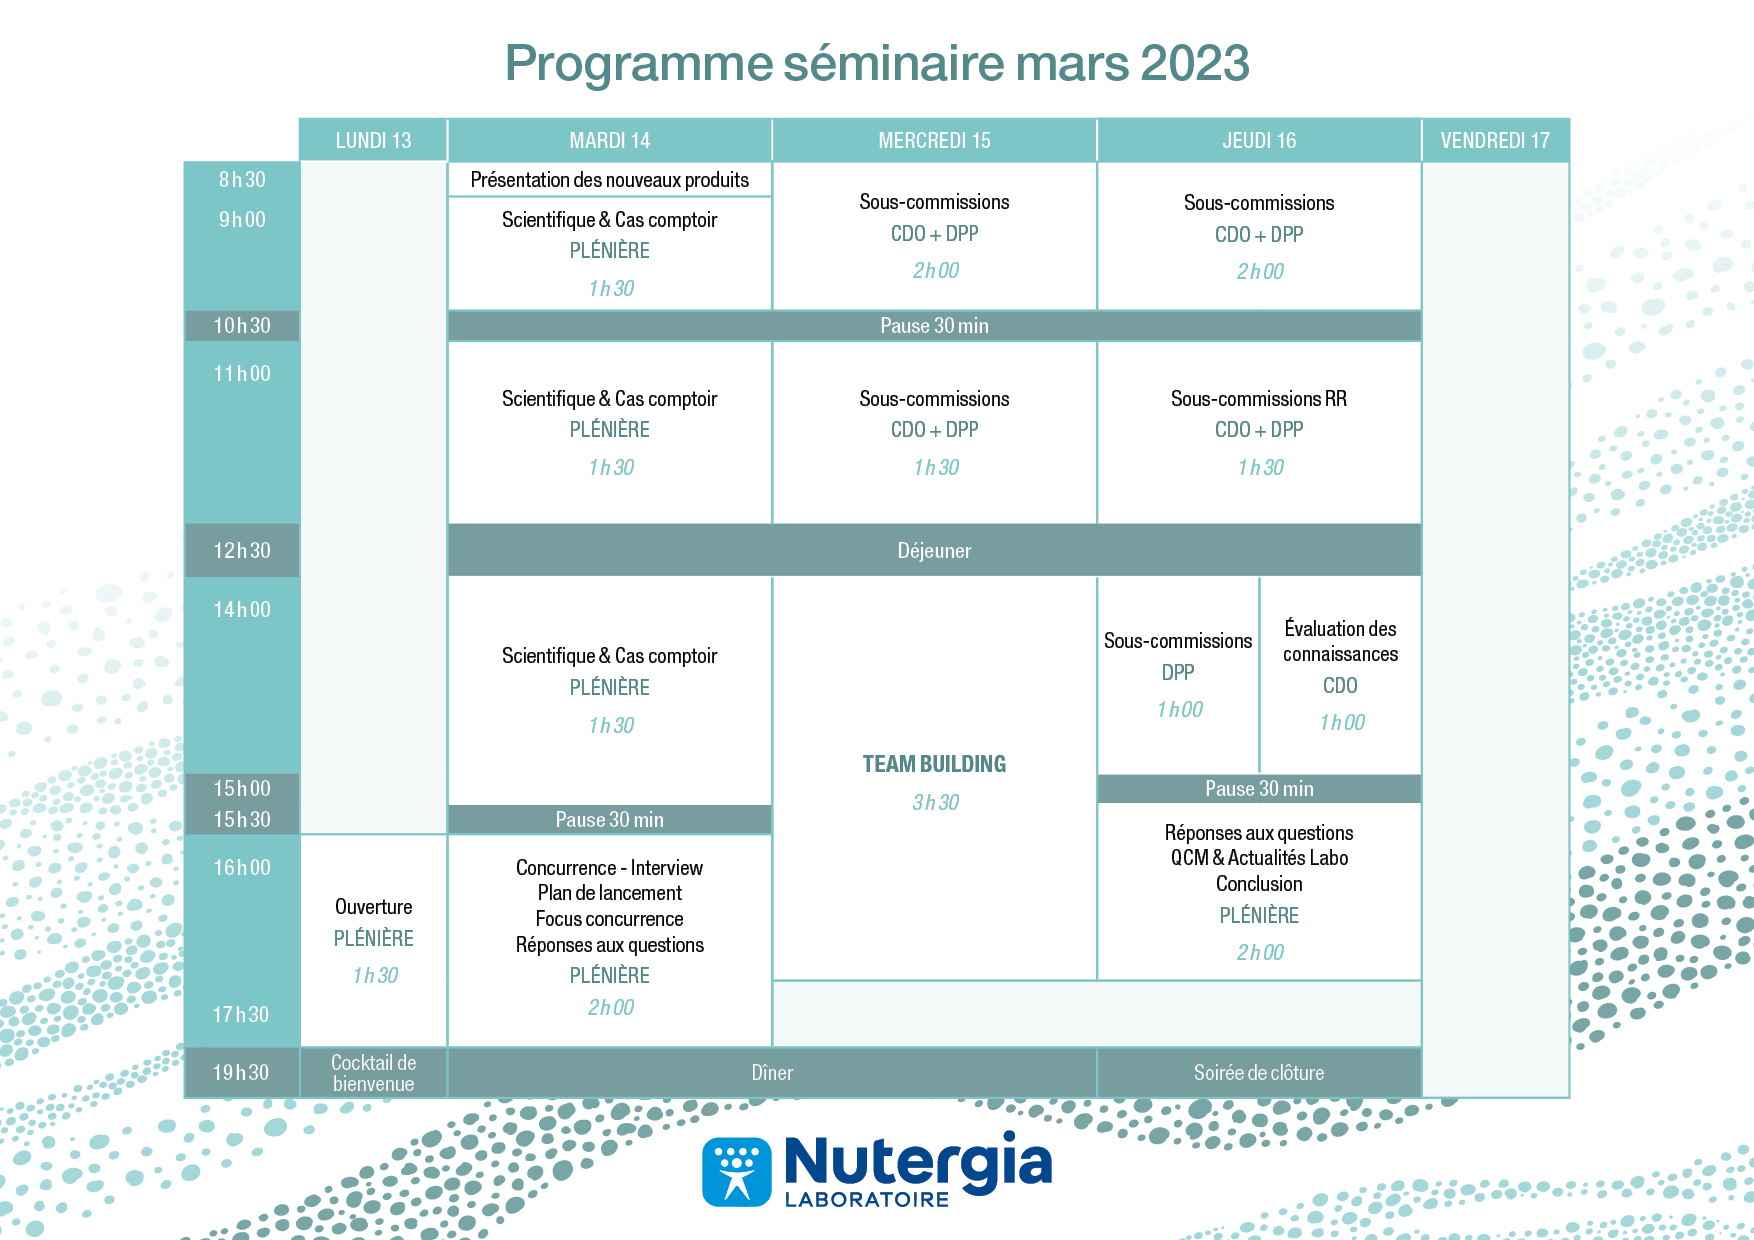
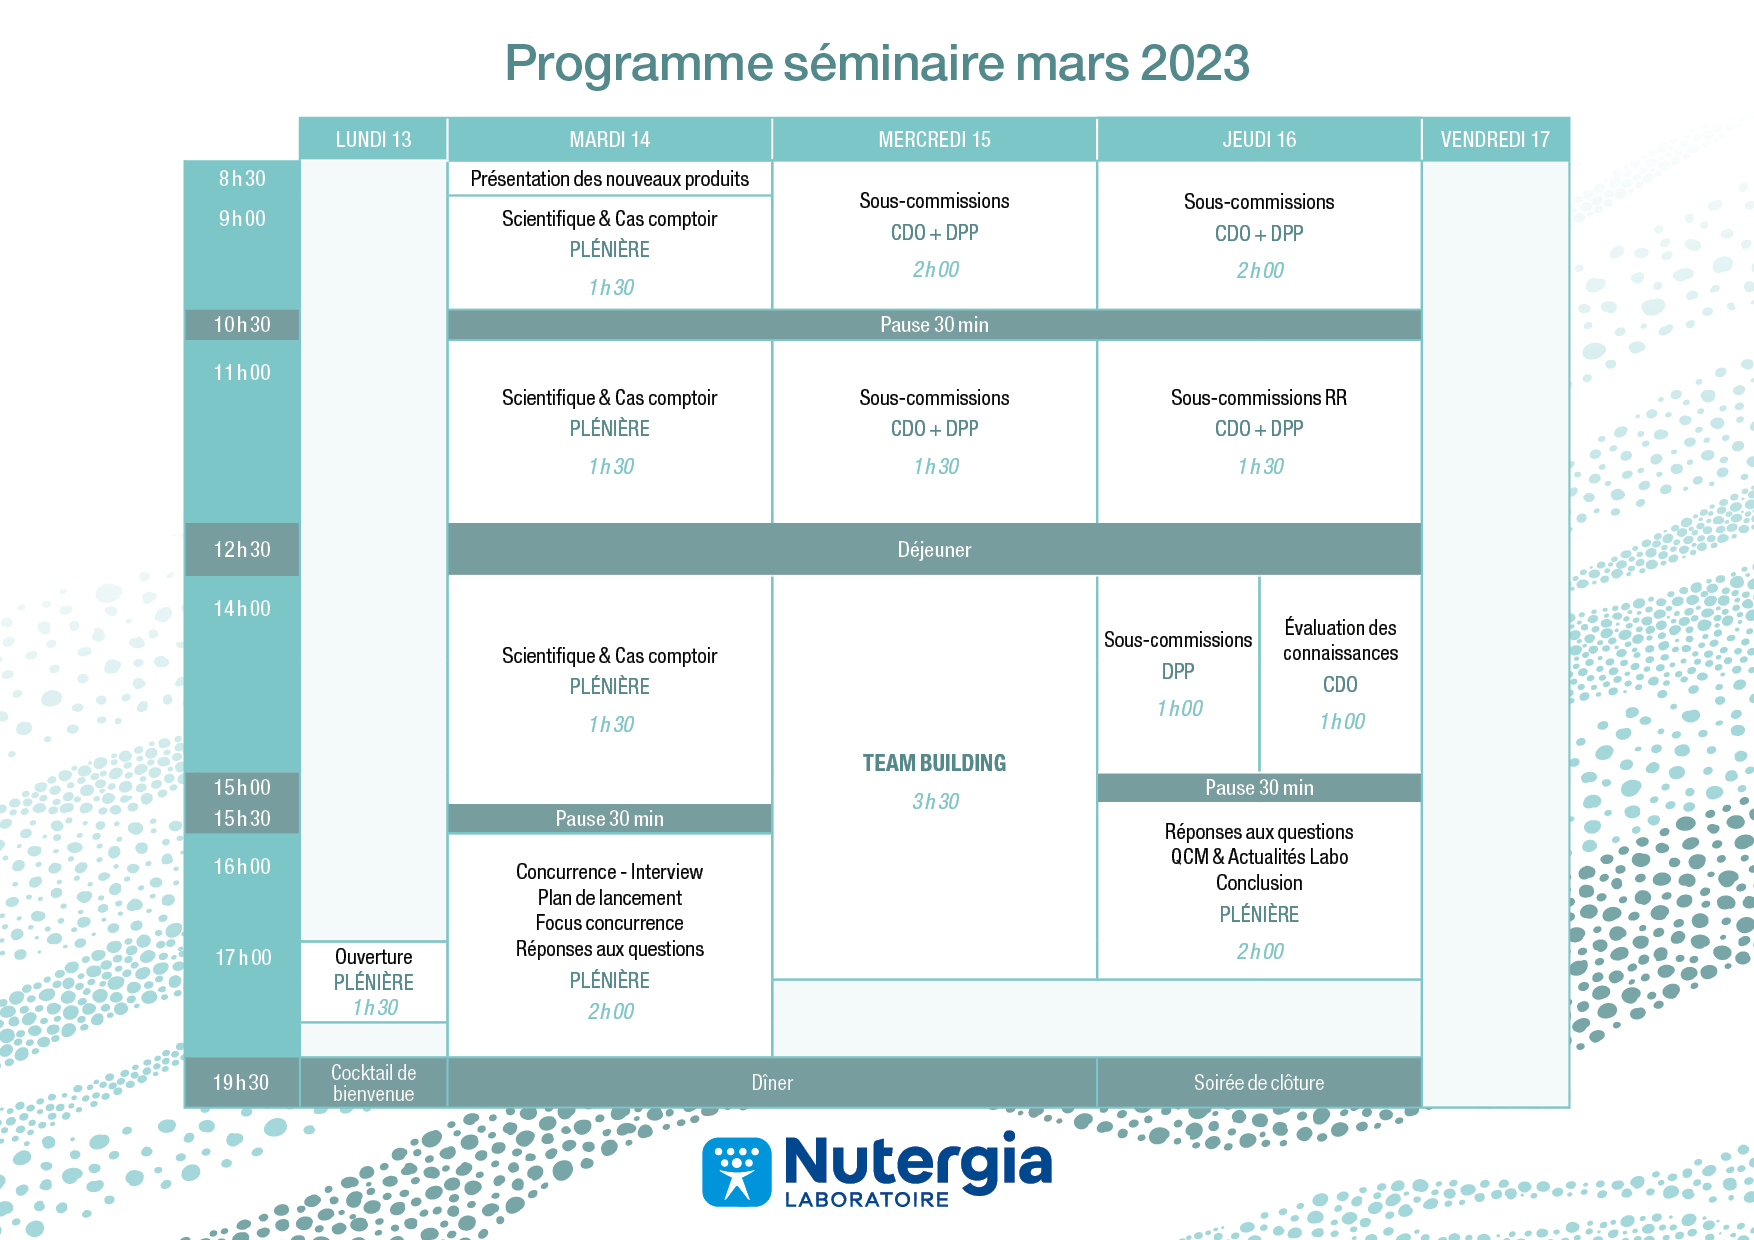
Update files

diff --git a/index.html b/index.html
@@ -158,7 +158,7 @@
 				<div class="tab-pane active" id="tab-1-content" role="tabpanel" aria-labelledby="tab-1">
 					<div class="item item-talk">
 						<div class="meta">
-							<h4 class="time mb-3">16:00 - 17:30</h4>
+							<h4 class="time mb-3">17:00 - 18:30</h4>
 							<div class="profile">
 								<img class="profile-image rounded-circle  mb-2" src="assets/images/speakers/reunion.jpg" alt="Salle de réunion"></a>
 							</div><!--//profile-->
